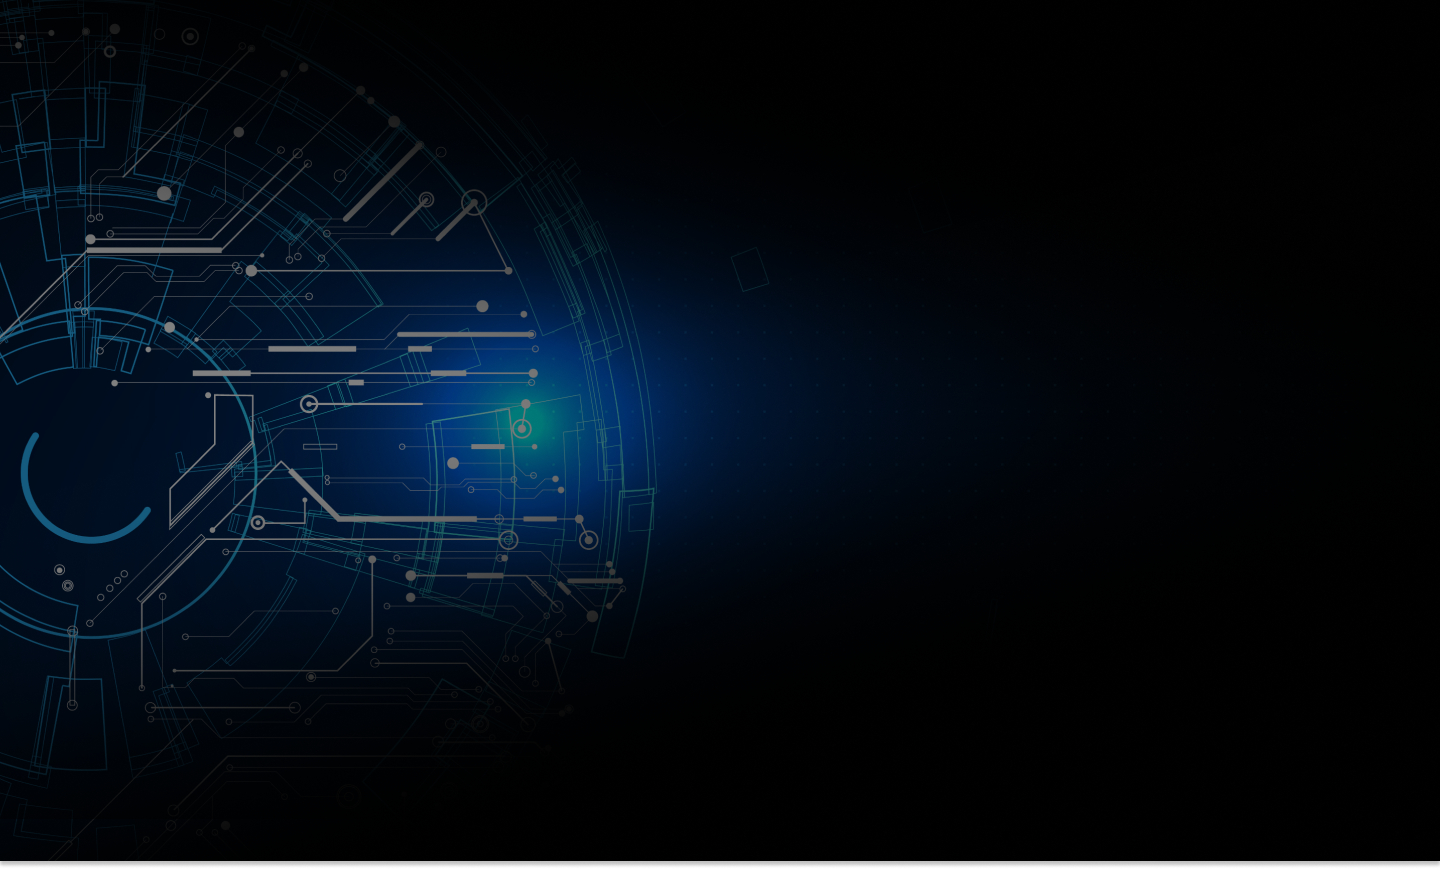
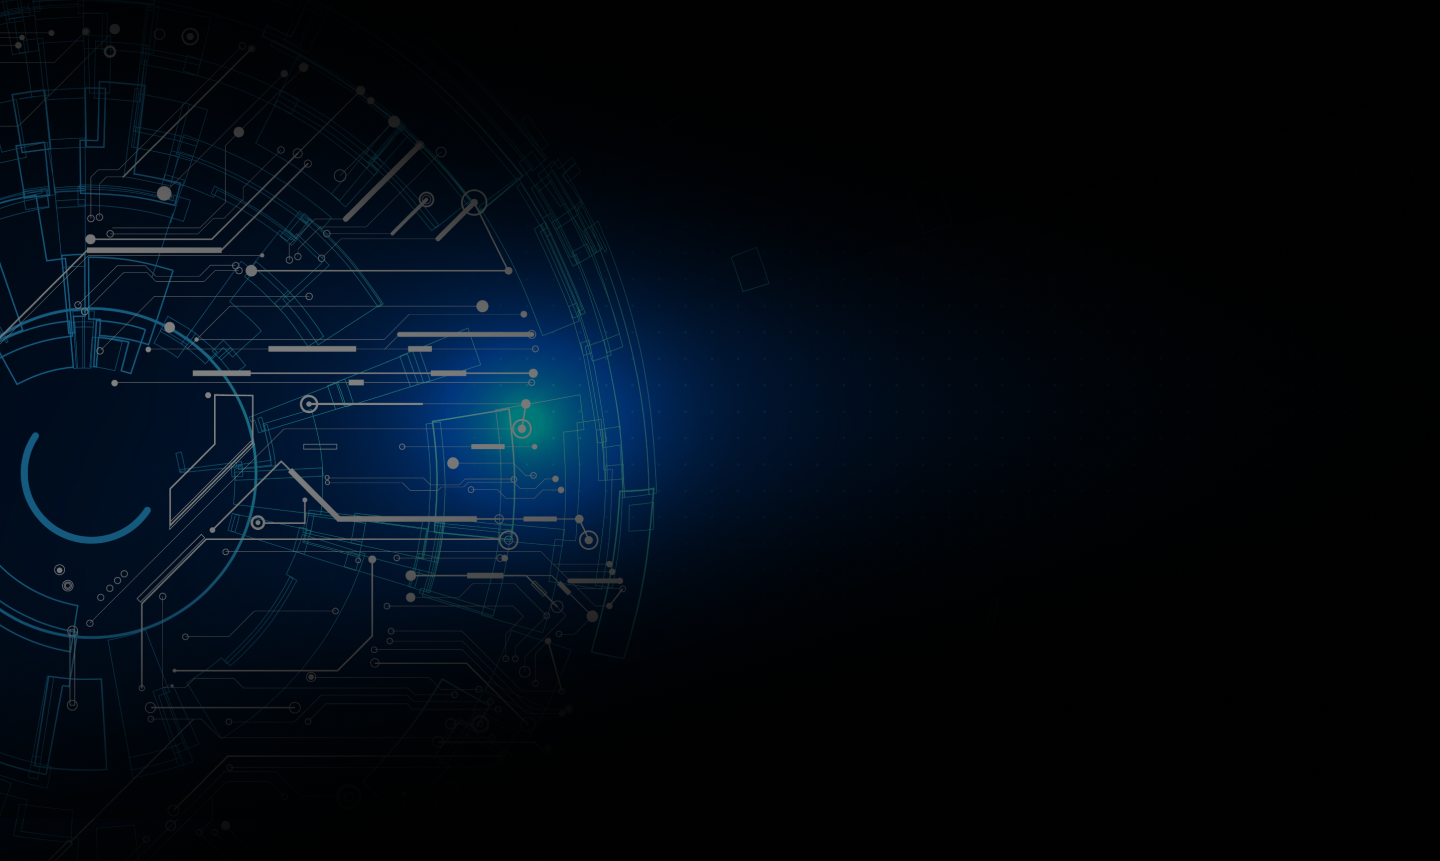
Home Page Background Improvements

diff --git a/src/app/header/header.component.html b/src/app/header/header.component.html
@@ -12,7 +12,7 @@
                         <i class="fa drop-icon">&#xf107;</i>
                     </a>
                     <div class="dropdown-menu">
-                        <a class="dropdown-item">Fre</a>
+                        <a class="dropdown-item">French</a>
                         <a class="dropdown-item">Urdu </a>
                         <a class="dropdown-item">Hindi</a>
                     </div>
@@ -50,7 +50,7 @@
                             <i class="fa drop-icon">&#xf107;</i>
                         </a>
                         <div class="dropdown-menu">
-                            <a class="dropdown-item">french</a>
+                            <a class="dropdown-item">French</a>
                             <a class="dropdown-item">Urdu </a>
                             <a class="dropdown-item">Hindi</a>
                         </div>
@@ -58,7 +58,7 @@
 
                     <li class="nav-item contact-btn-nav ">
                         <span class="primary-btn white-text" routerLink="contact-us">
-                            Contact US
+                            Contact Us
                         </span>
                     </li>
 

diff --git a/src/app/home/home.component.scss b/src/app/home/home.component.scss
@@ -11,49 +11,11 @@
 .home-section-2 {
     background-image: url("../../assets/images/bg-2.png");
     height: 819px;
-    .section-2-mask-1 {
-        width: 110%;
-        height: 30%;
-        background: #000000;
-        filter: blur(69px);
-        position: absolute;
-        top: -91px;
-        left: -40px;
-    }
-    .section-2-mask-2 {
-        width: 63%;
-        height: 41%;
-        background: #000000;
-        filter: blur(69px);
-        transform: rotate(349deg);
-        position: absolute;
-        left: -44px;
-        top: 75px;
-    }
 }
 
 .home-section-3 {
     height: 819px;
     background-image: url("../../assets/images/bg-3.png");
-    .section-3-mask-1 {
-        width: 110%;
-        height: 30%;
-        background: #000000;
-        filter: blur(69px);
-        position: absolute;
-        top: -124px;
-        left: -85px;
-    }
-    .section-2-mask-2 {
-        width: 63%;
-        height: 41%;
-        background: #000000;
-        filter: blur(69px);
-        transform: rotate(349deg);
-        position: absolute;
-        left: -44px;
-        top: 75px;
-    }
 }
 
 .home-section-4 {

diff --git a/src/app/home/home.component.html b/src/app/home/home.component.html
@@ -20,8 +20,6 @@
     </div>
 </section>
 <div class="common-section home-section-2">
-    <div class="section-2-mask-1"></div>
-    <div class="section-2-mask-2"></div>
     <div class="container">
         <div class="row">
             <div class="col-sm-8">
@@ -60,7 +58,6 @@
     </div>
 </div>
 <div class="common-section home-section-3">
-    <div class="section-3-mask-1"></div>
     <div class="container">
         <div class="row">
             <div class="col-sm-5"></div>
